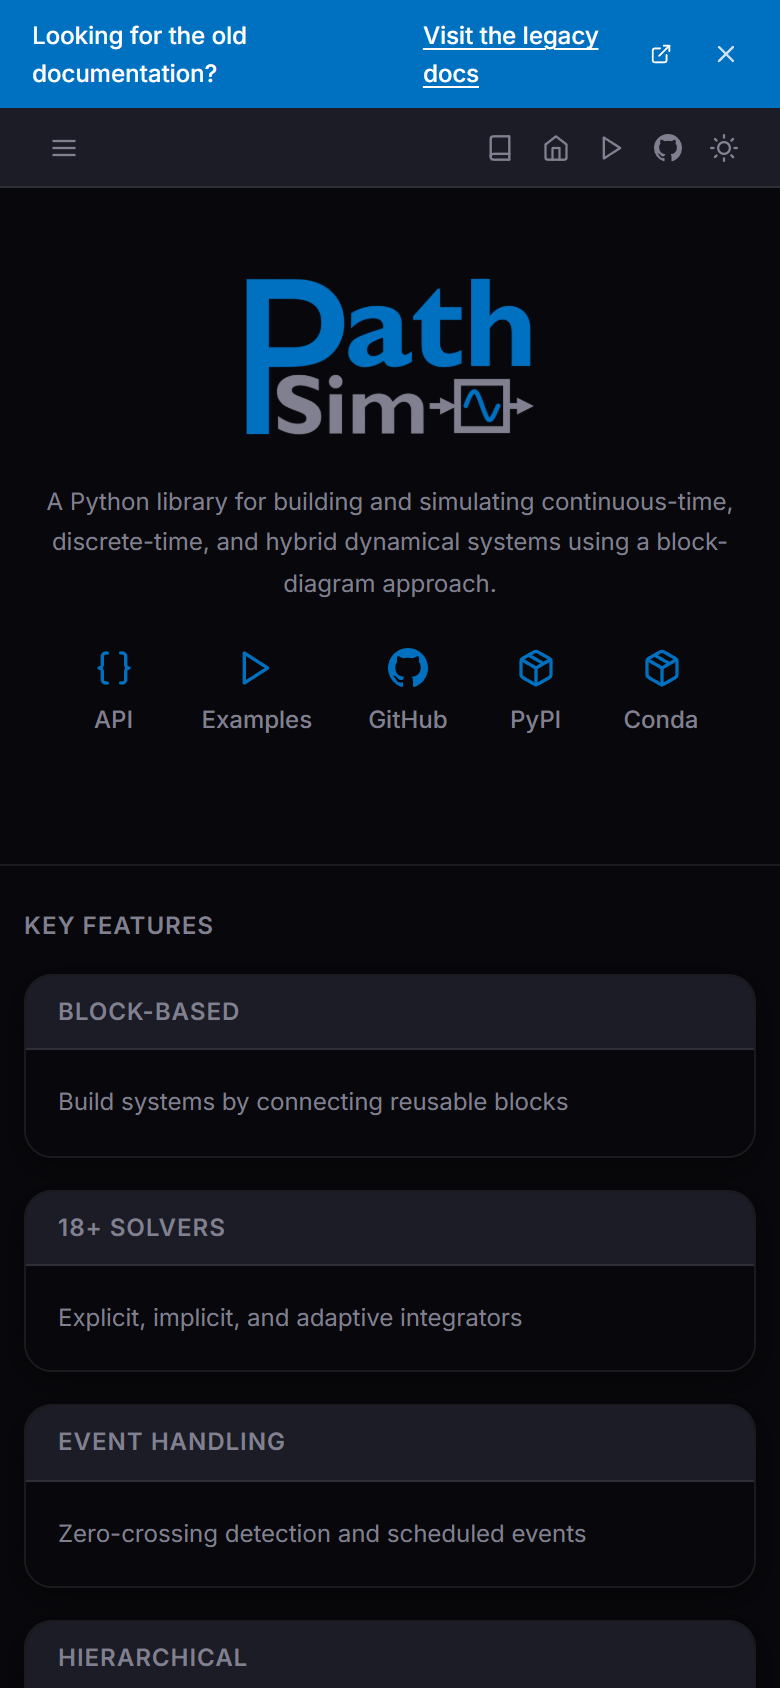
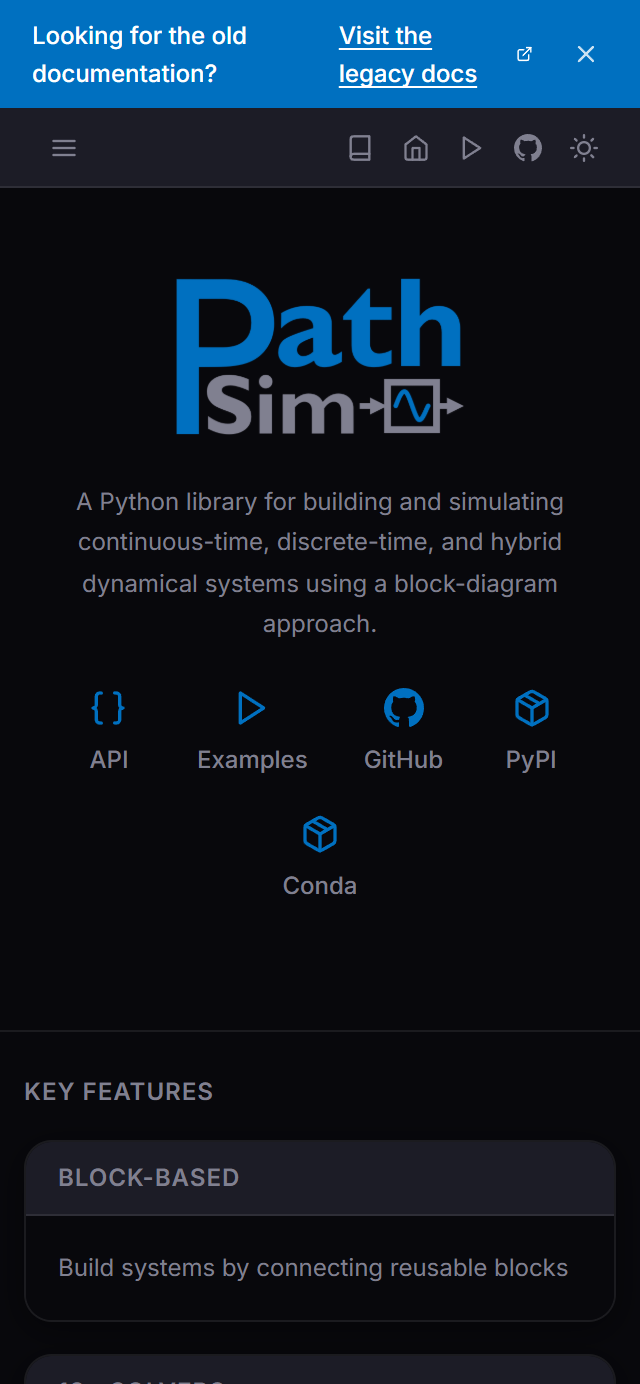
Use smaller viewport for zoomed-in screenshots

diff --git a/scripts/capture-screenshots.js b/scripts/capture-screenshots.js
@@ -24,8 +24,8 @@ const sites = [
 const themes = ['dark', 'light'];
 
 const viewports = [
-	{ suffix: '', width: 1440, height: 900, label: 'desktop' },
-	{ suffix: '-mobile', width: 390, height: 844, label: 'mobile' }
+	{ suffix: '', width: 1024, height: 640, label: 'desktop' },
+	{ suffix: '-mobile', width: 320, height: 692, label: 'mobile' }
 ];
 
 async function captureScreenshot(browser, site, theme, viewport) {
